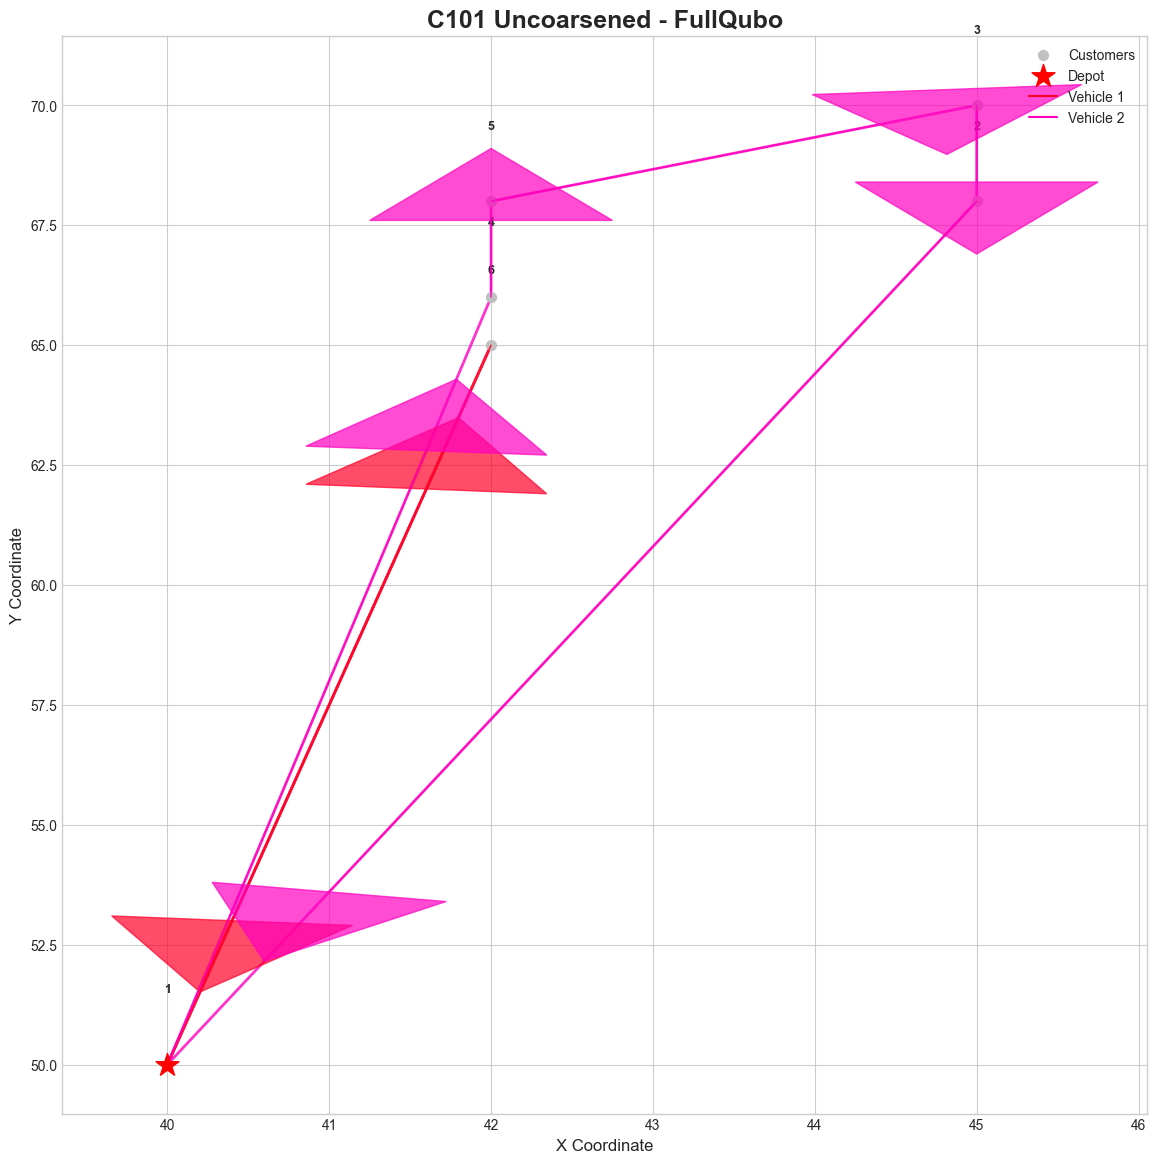
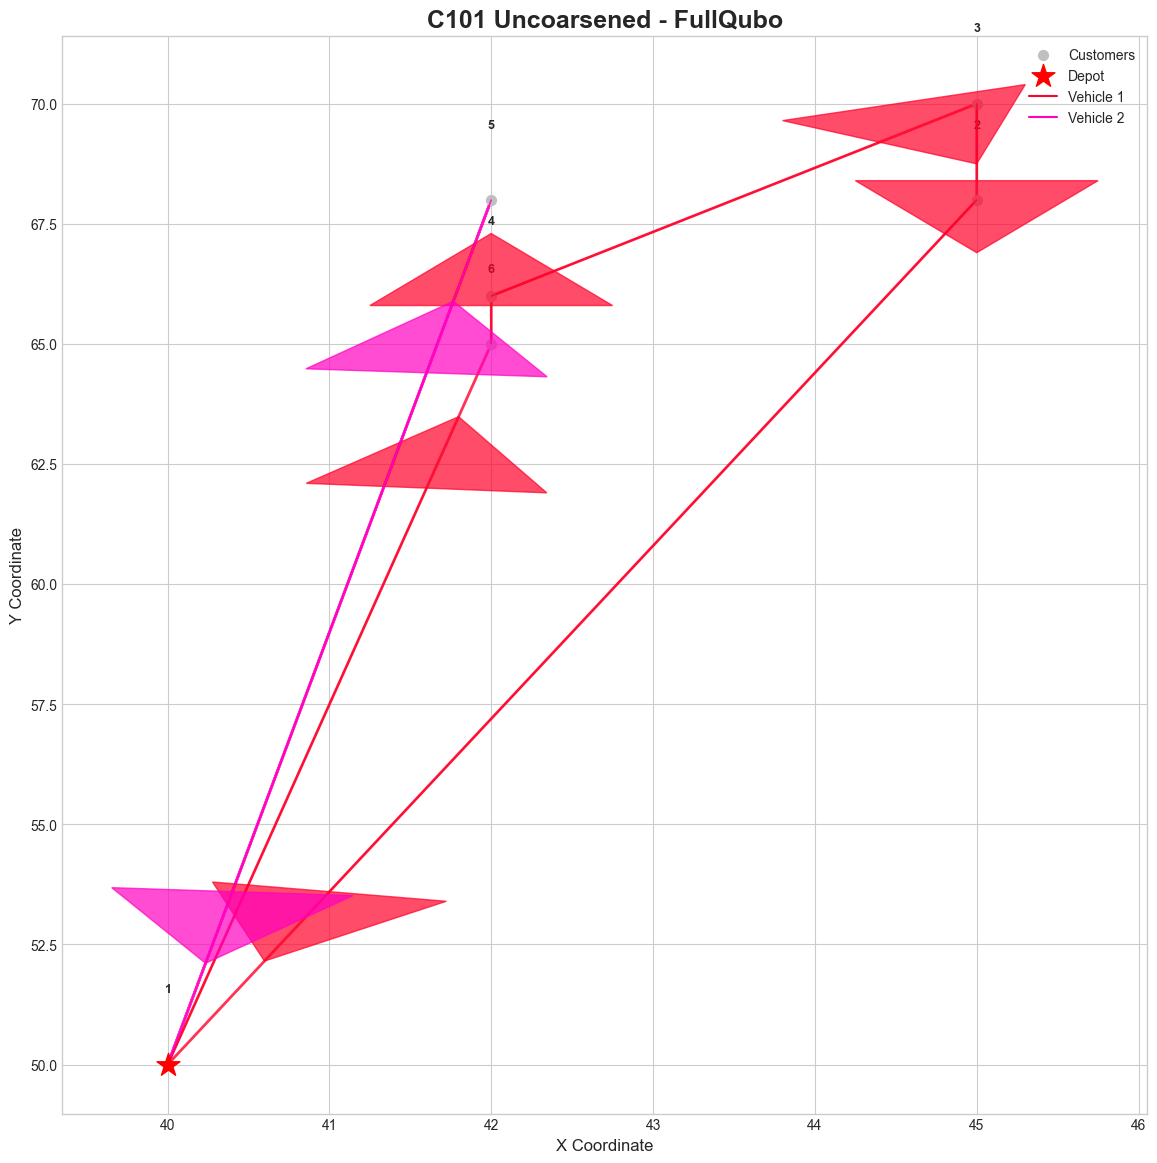
refactoring

diff --git a/graph.py b/graph.py
@@ -1,12 +1,14 @@
+from __future__ import annotations
+
 import math
 from .node import Node
 from .edge import Edge
 
+
 def compute_euclidean_tau(node1: Node, node2: Node) -> float:
-    """
-    Computes the Euclidean travel time (distance) between two nodes.
-    """
+    """Computes the Euclidean travel time (distance) between two nodes."""
     return math.sqrt((node1.x - node2.x)**2 + (node1.y - node2.y)**2)
+
 
 class Graph:
     """
@@ -16,34 +18,35 @@ class Graph:
         edges (list): List of Edge objects.
         adj (dict): Adjacency list mapping node ID to a set of connected node IDs.
     """
-    def __init__(self):
-        self.nodes = {}
-        self.edges = []
-        self.adj = {} # Adjacency list: {node_id: {neighbor_id, ...}}
 
-    def add_node(self, node):
+    def __init__(self) -> None:
+        self.nodes: dict[str, Node] = {}
+        self.edges: list[Edge] = []
+        self.adj: dict[str, set[str]] = {}
+
+    def add_node(self, node: Node) -> None:
         """Adds a node to the graph."""
         self.nodes[node.id] = node
         if node.id not in self.adj:
             self.adj[node.id] = set()
 
-    def add_edge(self, u_id, v_id, tau):
+    def add_edge(self, u_id: str, v_id: str, tau: float) -> None:
         """Adds an edge to the graph, connecting two existing nodes."""
         if u_id not in self.nodes or v_id not in self.nodes:
             raise ValueError(f"Nodes {u_id} or {v_id} not found in graph.")
-        
+
         # Check if edge already exists to avoid duplicates
         for edge in self.edges:
             if (edge.u_id == u_id and edge.v_id == v_id) or \
                (edge.u_id == v_id and edge.v_id == u_id):
-                return # Edge already exists
+                return  # Edge already exists
 
         edge = Edge(u_id, v_id, tau)
         self.edges.append(edge)
         self.adj[u_id].add(v_id)
-        self.adj[v_id].add(u_id) # Assuming undirected graph for VRP connections
+        self.adj[v_id].add(u_id)  # Assuming undirected graph for VRP connections
 
-    def remove_node(self, node_id):
+    def remove_node(self, node_id: str) -> None:
         """Removes a node and all its incident edges from the graph."""
         if node_id not in self.nodes:
             return
@@ -53,14 +56,14 @@ class Graph:
 
         # Remove from adjacency list
         if node_id in self.adj:
-            for neighbor_id in list(self.adj[node_id]): # Iterate over a copy
+            for neighbor_id in list(self.adj[node_id]):  # Iterate over a copy
                 if neighbor_id in self.adj:
                     self.adj[neighbor_id].discard(node_id)
             del self.adj[node_id]
-        
+
         del self.nodes[node_id]
 
-    def get_edge_by_nodes(self, u_id, v_id):
+    def get_edge_by_nodes(self, u_id: str, v_id: str) -> Edge | None:
         """Returns an edge object given its two node IDs, or None if not found."""
         for edge in self.edges:
             if (edge.u_id == u_id and edge.v_id == v_id) or \
@@ -68,11 +71,25 @@ class Graph:
                 return edge
         return None
 
-    def get_neighbors(self, node_id):
+    def get_neighbors(self, node_id: str) -> set[str]:
         """Returns a set of neighbor IDs for a given node."""
         return self.adj.get(node_id, set())
 
-    def get_all_edges_for_node(self, node_id):
+    def get_all_edges_for_node(self, node_id: str) -> list[Edge]:
         """Returns a list of edge objects connected to a given node."""
         return [edge for edge in self.edges if edge.u_id == node_id or edge.v_id == node_id]
 
+    def distance(self, u_id: str, v_id: str) -> float:
+        """Return the Euclidean travel time between two nodes already in the graph."""
+        return compute_euclidean_tau(self.nodes[u_id], self.nodes[v_id])
+
+    def build_complete_edges(self) -> None:
+        """Add edges between every pair of nodes that does not yet have one."""
+        node_ids = list(self.nodes.keys())
+        for i in range(len(node_ids)):
+            for j in range(i + 1, len(node_ids)):
+                u_id, v_id = node_ids[i], node_ids[j]
+                if self.get_edge_by_nodes(u_id, v_id) is None:
+                    self.add_edge(u_id, v_id, compute_euclidean_tau(
+                        self.nodes[u_id], self.nodes[v_id]
+                    ))
